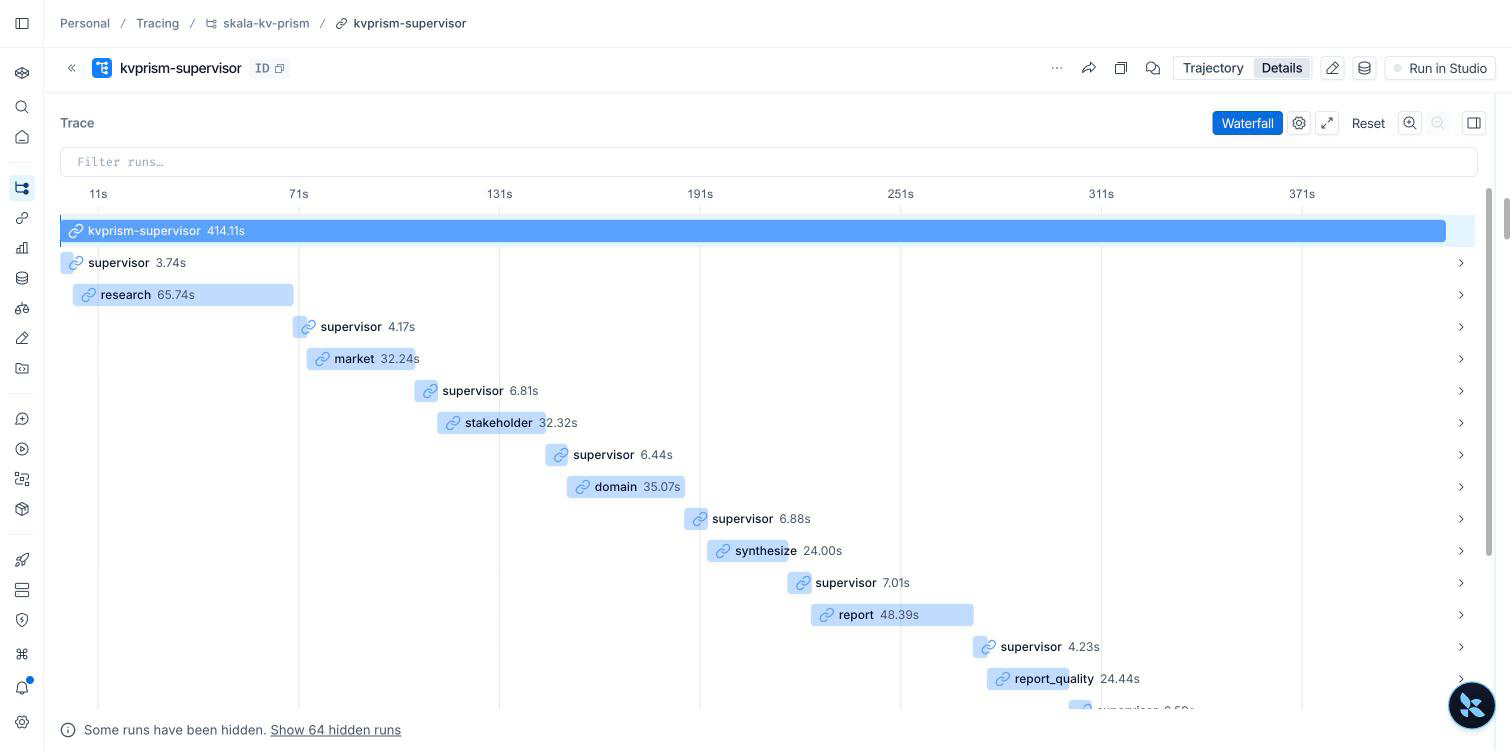
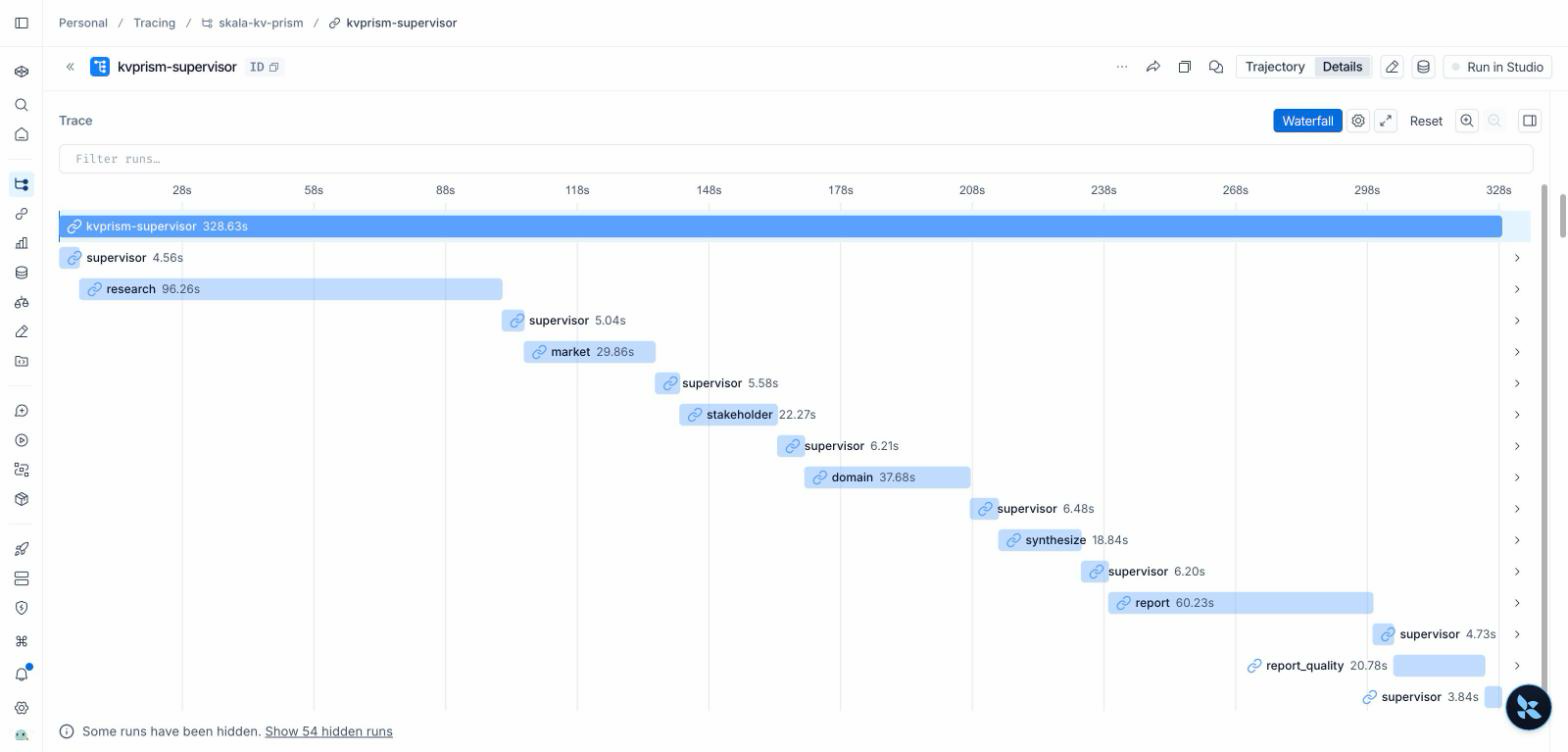
Docs: 최종 terra 실행 결과와 트레이스로 README 갱신

diff --git a/README.md b/README.md
@@ -82,7 +82,7 @@ Supervisor 1개와 하위 에이전트 7개가 각각 그래프의 노드 하나
 | 보고서 생성 (report) | 장별로 본문을 만들고 표와 REFERENCE를 붙여 Markdown과 PDF로 저장합니다 | `report` | `render_pdf` |
 | 품질 평가 (report_quality) | 보고서를 근거성 · 중립성 · 편향 통제 · 관점 커버리지 · 형식으로 판정합니다 | `quality` | Judge LLM |
 
-관점 에이전트 3개는 다시 맡을 때 Supervisor의 보완 지시와 자기 이전 결과를 함께 받아, 타당한 근거는 유지하고 지시한 항목만 다시 찾습니다. 근거가 하나도 없는 결과나 웹 검색 실패는 성공으로 처리하지 않고 오류로 돌려보냅니다.
+관점 에이전트 3개는 기술 조사 결과를 요약 텍스트로 받고, 인용할 출처로는 자기가 찾은 웹 검색 결과(도메인은 논문 RAG 청크 포함)를 받습니다. 다시 맡을 때는 Supervisor의 보완 지시와 자기 이전 결과를 함께 받아, 타당한 근거는 유지하고 지시한 항목만 다시 찾습니다. 근거가 하나도 없는 결과나 웹 검색 실패는 성공으로 처리하지 않고 오류로 돌려보냅니다.
 
 ## Supervisor와 동적 처리
 
@@ -205,7 +205,7 @@ PDF ─PyMuPDF→ 페이지 텍스트 ─800자/겹침 100자→ 청크 ─bge-m
 목차는 표지 → SUMMARY → 1. 분석 배경 → 2. 기술 선정 → 3. 기술 개요 → 4. 관점별 평가 → 5. 시사점 → 6. 한계점 → REFERENCE이고, 전체 10쪽 이내입니다.
 
 - 장마다 따로 생성하고, 앞서 쓴 장을 함께 넘겨 같은 내용을 반복하지 않게 합니다
-- SUMMARY는 분석 대상과 범위, 핵심 판단, 적용 전 확인사항 세 항목입니다. A4 반 페이지를 넘으면 저장하지 않습니다
+- SUMMARY는 소제목 없이 굵은 머리말 문단으로 씁니다(분석 범위, 기술별 확인된 것과 확인되지 않은 것, 평가가 갈리는 지점, 적용 전 확인). 기술마다 대표 수치 하나를 조건과 함께 넣고, A4 반 페이지를 넘으면 저장하지 않습니다
 - 4장은 시장 · 이해관계자 · 도메인을 소제목으로 나눕니다. TRL 표, 관점 × 기술 표, 상충 지점은 모델이 아니라 코드가 조립합니다
 - TRL은 논문만 근거이면 3을 넘을 수 없고, 넘으면 종합을 다시 요청합니다. 근거가 부족하면 숫자 대신 판정 불가로 표시합니다
 - 출처는 두 벌로 저장합니다. 검증용 원본(`report.source.md`)에는 청크 ID를, 표시용(`report.md`)과 PDF에는 논문 `[TQ p.7]`과 웹 REFERENCE 번호를 씁니다
@@ -215,28 +215,32 @@ PDF ─PyMuPDF→ 페이지 텍스트 ─800자/겹침 100자→ 청크 ─bge-m
 
 | 항목 | 값 |
 | --- | --- |
-| trace_id | `84e5e3d4-2849-4657-a20b-182f725fa13b` |
+| trace_id | `2f7e4de2-4db7-4037-8c81-f89da9457b70` |
 | 모델 | Supervisor · Generator gpt-5.6-terra, Judge gpt-5.6-luna |
 | 종료 상태 | 성공(succeeded) |
-| 실행 시간 | 약 7분 (하위 에이전트 354초, Supervisor 판단 60초) |
-| Supervisor 판단 | 11회 (거부된 판단 없음) |
-| 실행 순서 | research → market → stakeholder → domain → synthesize → report → report_quality → **synthesize → report → report_quality** |
-| 재작업 | 종합 1회, 보고서 1회 (품질 미달에 따른 수정) |
-| 품질 평가 | 1차 근거성 미달 → 수정 후 2차에 5개 항목 모두 통과 |
-| 보고서 | 7쪽, REFERENCE 3건(논문 2, 웹 1), 상충 지점 3개 |
-| TRL | TurboQuant 논문 기술 3 · 기반 기술 판정 불가, ITME 논문 기술 3 · 기반 기술 판정 불가 |
+| 실행 시간 | 약 5분 30초 (하위 에이전트 286초, Supervisor 판단 43초) |
+| Supervisor 판단 | 8회 (거부된 판단 없음) |
+| 실행 순서 | research → market → stakeholder → domain → synthesize → report → report_quality |
+| 재작업 | 없음 (각 에이전트의 첫 결과를 근거 충분으로 판정) |
+| 품질 평가 | 1회에 5개 항목 모두 통과 |
+| 보고서 | 7쪽, REFERENCE 10건(논문 2, 웹 8), 상충 지점 3개 |
+| 인용 | 본문 인용 출처 36개(웹 8). 시장 평가는 웹 8개, 이해관계자 평가는 웹 5개, 도메인 평가는 논문 청크 22개를 인용 |
+| TRL | TurboQuant 논문 기술 3 · 기반 기술 3, ITME 논문 기술 3 · 기반 기술 3 |
 
-품질 루프는 이렇게 돌았습니다.
-
-1. 1차 품질 평가가 근거성 미달로 판정했습니다. 두 기술의 논문 실험 · 프로토타입 근거를 "기반 기술 TRL 3"의 근거로 옮겨 쓴 것이 문제였습니다
-2. Supervisor는 새 자료 없이 기존 출처로 고칠 수 있다고 보고 조사 대신 종합 수정을 골랐습니다. 논문 근거는 제안 기술의 검증으로만 쓰고, GPU · CXL 메모리 등 기반 구성요소의 성숙도로 바꾸지 말라고 지시했습니다
-3. 종합이 기반 기술 TRL을 판정 불가로 고쳤고, 보고서를 다시 쓴 뒤 2차 평가에서 모든 항목이 통과해 끝났습니다
-
-LangSmith Waterfall 화면입니다. 모든 하위 에이전트가 실행 뒤 Supervisor로 돌아가고, 뒷부분에서 종합 → 보고서 → 품질 평가가 한 번 더 반복됩니다.
+LangSmith Waterfall 화면입니다. 하위 에이전트가 하나씩 실행된 뒤 매번 Supervisor로 돌아가고, 순서는 Supervisor가 그때마다 정했습니다.
 
 ![LangSmith trace 1](docs/images/tracing-1.png)
 
+종합으로 넘어가기 직전 Supervisor의 판단입니다. 근거 충분(`evidence_status: sufficient`)으로 판정한 이유와, 종합 노드에 넘긴 보완 지시가 함께 남습니다.
+
 ![LangSmith trace 2](docs/images/tracing-2.png)
+
+같은 Supervisor 로직으로 돌린 개발 실행에서는 품질 미달에 따른 재작업이 일어났습니다. 이 실행들은 웹 인용·SUMMARY 수정 전 코드라 보고서 내용은 위 결과와 다릅니다.
+
+| trace_id | 흐름 | 재작업 |
+| --- | --- | --- |
+| `84e5e3d4-2849-4657-a20b-182f725fa13b` | 품질 근거성 미달(기반 기술 TRL 근거 전용) → 종합 수정 → 보고서 재작성 → 통과 | 종합 1회, 보고서 1회 |
+| `06fcecb2-4c19-4a62-af37-dc73b1abc0fe` | 품질 미달 → 종합 수정 → 보고서 재작성 → 다시 미달 → 보고서 재작성 → 통과 | 종합 1회, 보고서 2회 |
 
 ## Directory Structure
 
@@ -309,8 +313,9 @@ uv run python scripts/eval_retrieval.py --benchmark  # 후보 6편, 개발 24 ·
 | 배운 것 | 근거 |
 | --- | --- |
 | 규칙은 프롬프트가 아니라 코드에 | 프롬프트만 있을 때는 추천 표현과 근거 없는 TRL이 들어감. 이번 단계에서도 행동 선택, 근거 충분성, 품질 통과 여부는 코드가 다시 확인함 |
-| LLM 판단 필드는 의미가 겹치지 않게 | 개발 실행 2번이 품질 미달 뒤 같은 지점에서 실패함. Supervisor가 품질 미달 사유를 `gaps`에 적어 "보고서는 sufficient와 빈 gaps일 때만" 규칙에 연속으로 걸림. 수정 단계에서는 이 검사를 빼고, `gaps`의 뜻을 "분석을 막는 핵심 공백"으로 좁힘. 고친 뒤 제출 실행에서 품질 미달 → 종합 · 보고서 수정 → 통과를 확인 |
+| LLM 판단 필드는 의미가 겹치지 않게 | 개발 실행 2번이 품질 미달 뒤 같은 지점에서 실패함. Supervisor가 품질 미달 사유를 `gaps`에 적어 "보고서는 sufficient와 빈 gaps일 때만" 규칙에 연속으로 걸림. 수정 단계에서는 이 검사를 빼고, `gaps`의 뜻을 "분석을 막는 핵심 공백"으로 좁힘. 고친 뒤 개발 실행(`84e5e3d4`)에서 품질 미달 → 종합 · 보고서 수정 → 통과를 확인 |
 | 충분성 기준은 글로 정의해야 함 | 같은 코드로도 상용 채택 자료가 없다는 이유로 중단한 실행이 있었음. "범위를 한정한 보고서를 쓸 수 있는가"로 기준을 프롬프트에 명시함 |
+| 넣어 준 출처가 인용을 정함 | 관점 에이전트에 기술 조사의 논문 청크를 모두 넣자 웹 출처 32개를 모아 두고도 시장 평가가 웹을 하나도 인용하지 않았고, 보고서 본문의 웹 인용이 9개에서 1개로 줄었음. 논문 청크는 도메인이 직접 찾은 것만 넣도록 되돌리자 본문 웹 인용이 8개로 돌아옴 |
 | State 선확정이 병렬 개발의 조건 | State 계약(`supervisor_state.py`)을 먼저 머지하고, 나머지 작업이 그 위에서 각자 진행됨 |
 | 영어 논문에는 영어 질의 | 한국어 질의 BM25 Hit@5 0.458, 영어 0.958. 융합 후 MRR도 한국어 0.449, 영어 0.727 |
 
